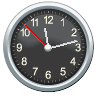
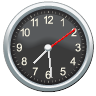
-

Changed region(s): [[0.25, 0.25, 0.8125, 0.8125]]

diff --git a/test.py b/test.py
@@ -2,11 +2,9 @@
 # coding=utf-8
 
 
-import sys, getopt, logging
+import sys, getopt, logging, datetime
 
-import Image
-import ImageDraw
-import ImageFont
+from PIL import Image
 import time
 
 
@@ -25,6 +23,7 @@ def main(argv):
 	logger = logging.getLogger(__name__)	
 	
 	
+	time = datetime.datetime.now()
 	matrixImage = Image.new("RGBA", (matrixWidth, matrixHeight)) 
 
 	backgroundImage = Image.open("./images/clock/bg.png")
@@ -34,9 +33,10 @@ def main(argv):
 	hoursImage = Image.open("./images/clock/hours.png")
 	secondsImage = Image.open("./images/clock/seconds.png")
 	
-	secondsImage = secondsImage.rotate(45)
-	hoursImage = hoursImage.rotate(10)
-	minutesImage = minutesImage.rotate(-75)
+
+	secondsImage = secondsImage.rotate(-360.0 * (time.second / 60.0))
+	hoursImage = hoursImage.rotate(-360.0 * ((time.hour % 12) * 60 + time.minute) / (12.0 * 60.0))
+	minutesImage = minutesImage.rotate(-360.0 * (time.minute / 60.0))
 
 	matrixImage.paste(backgroundImage, [0, 0, 96, 96], backgroundImage)
 	matrixImage.paste(hoursImage, [0, 0, 96, 96], hoursImage)
